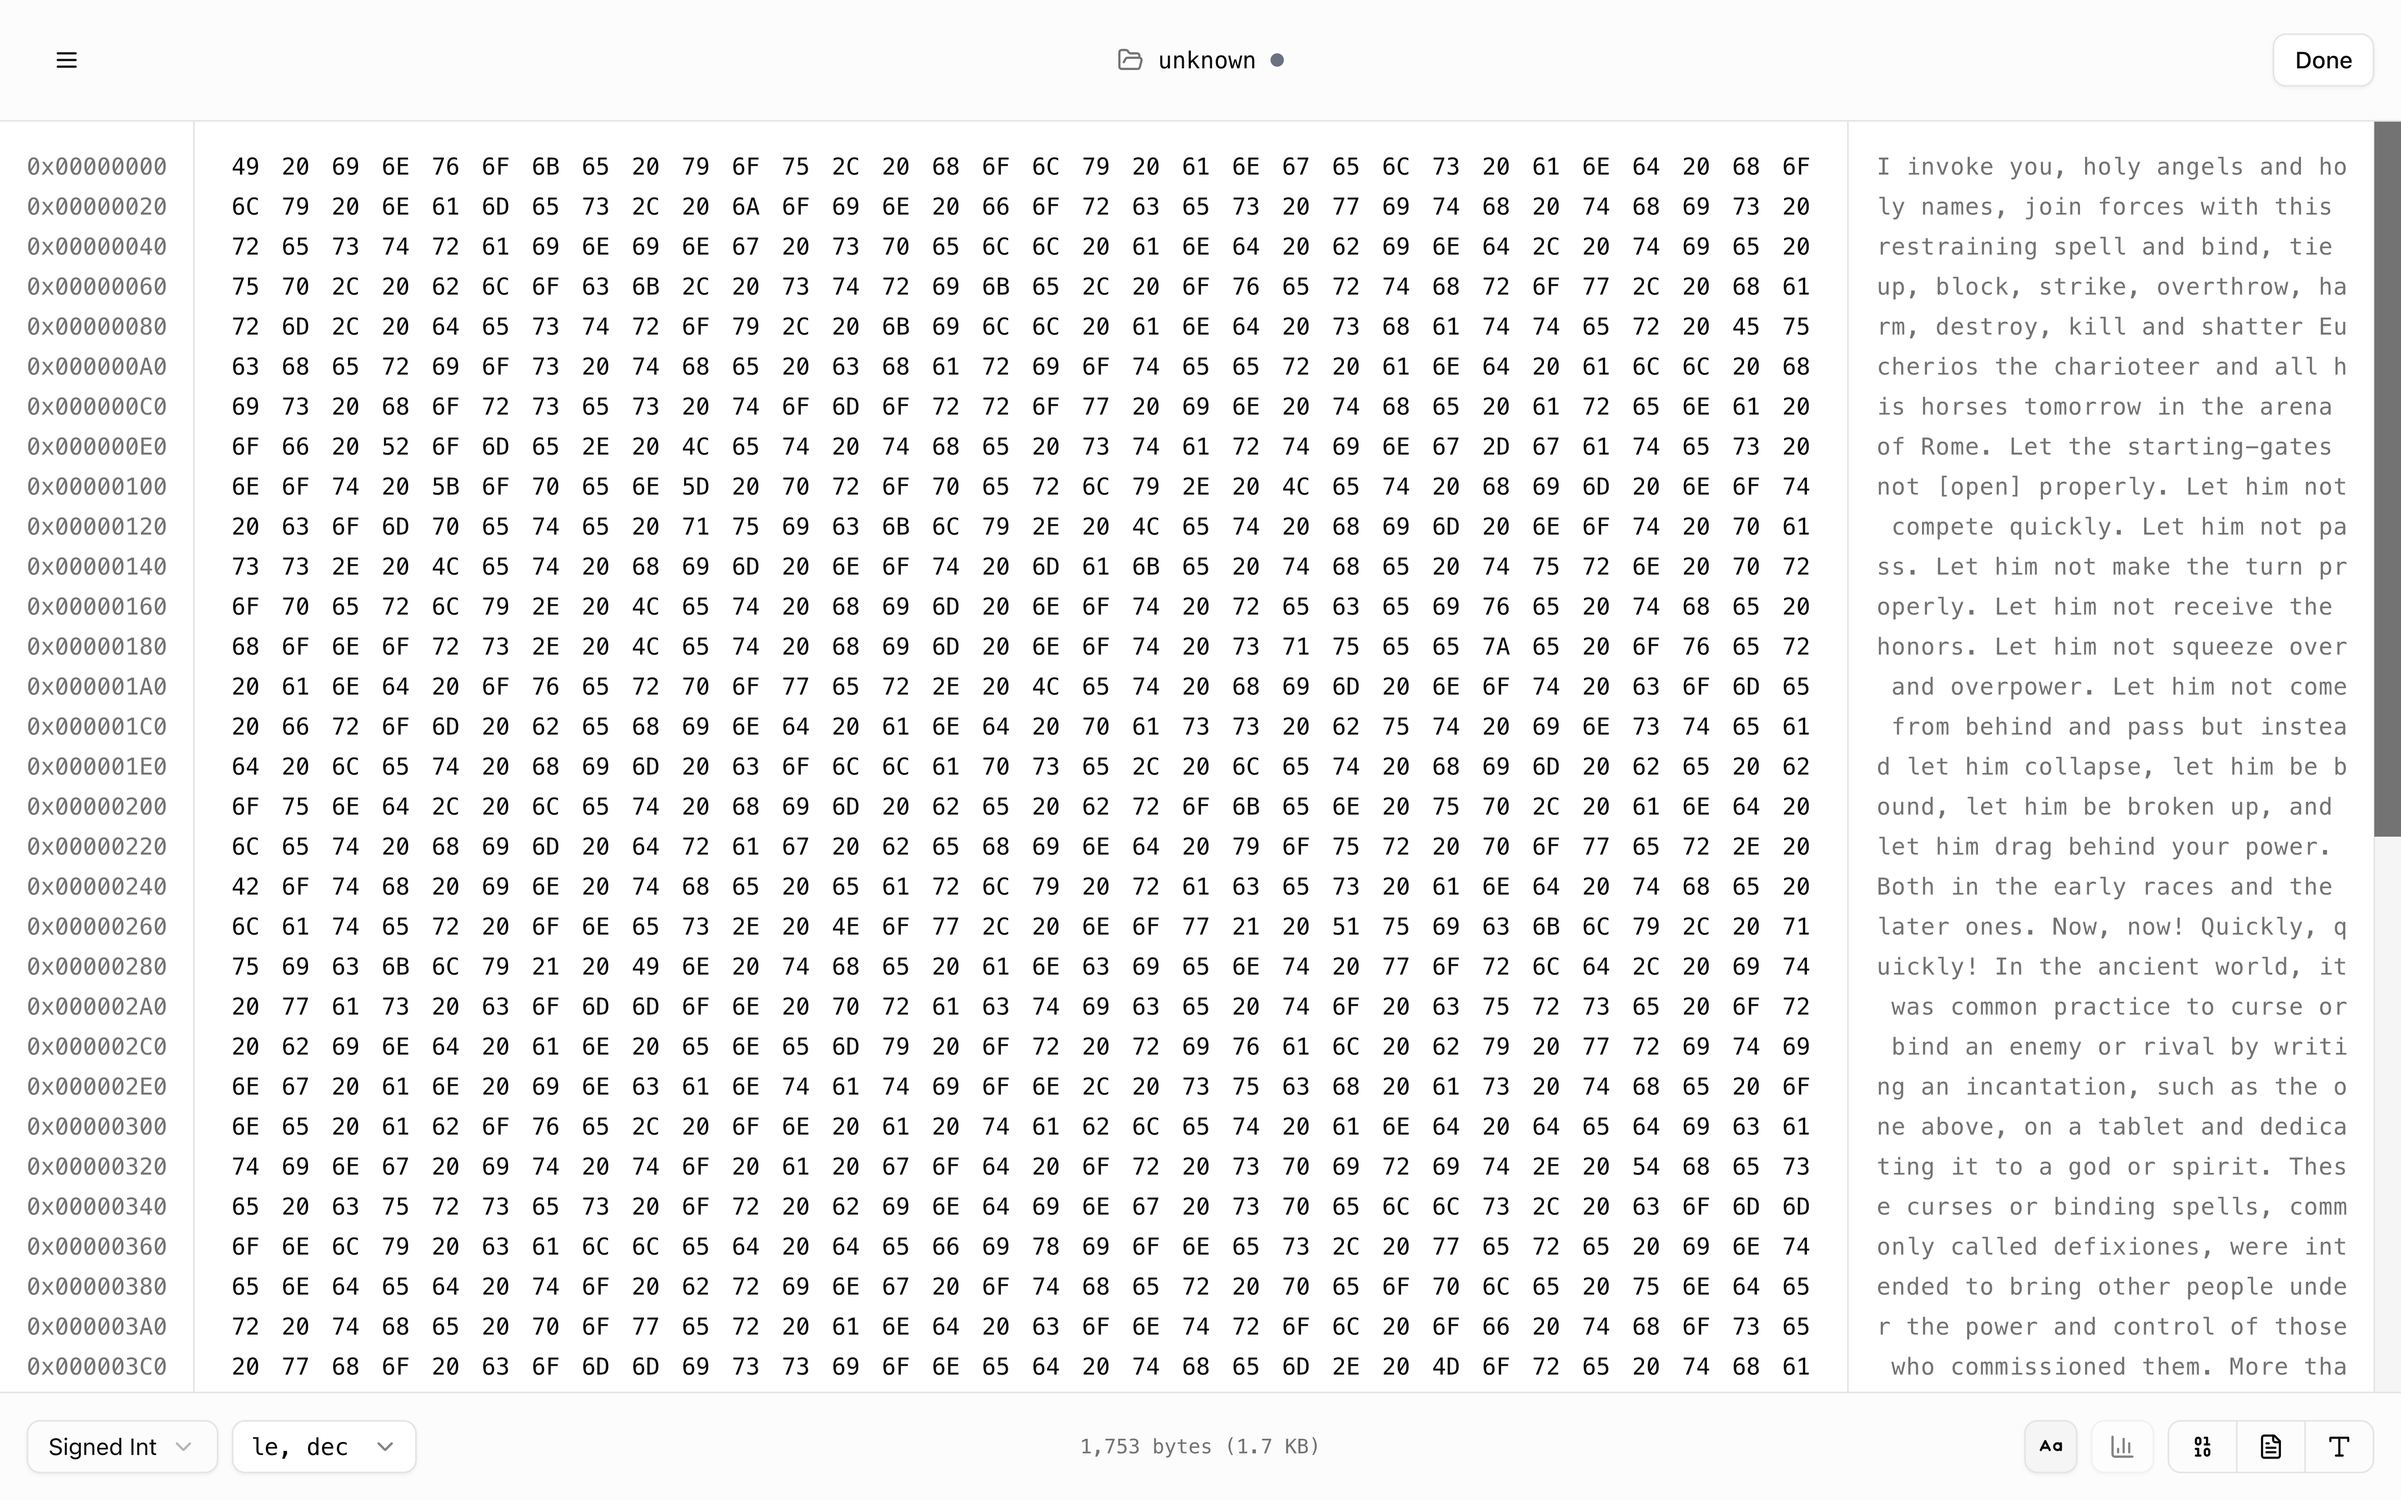
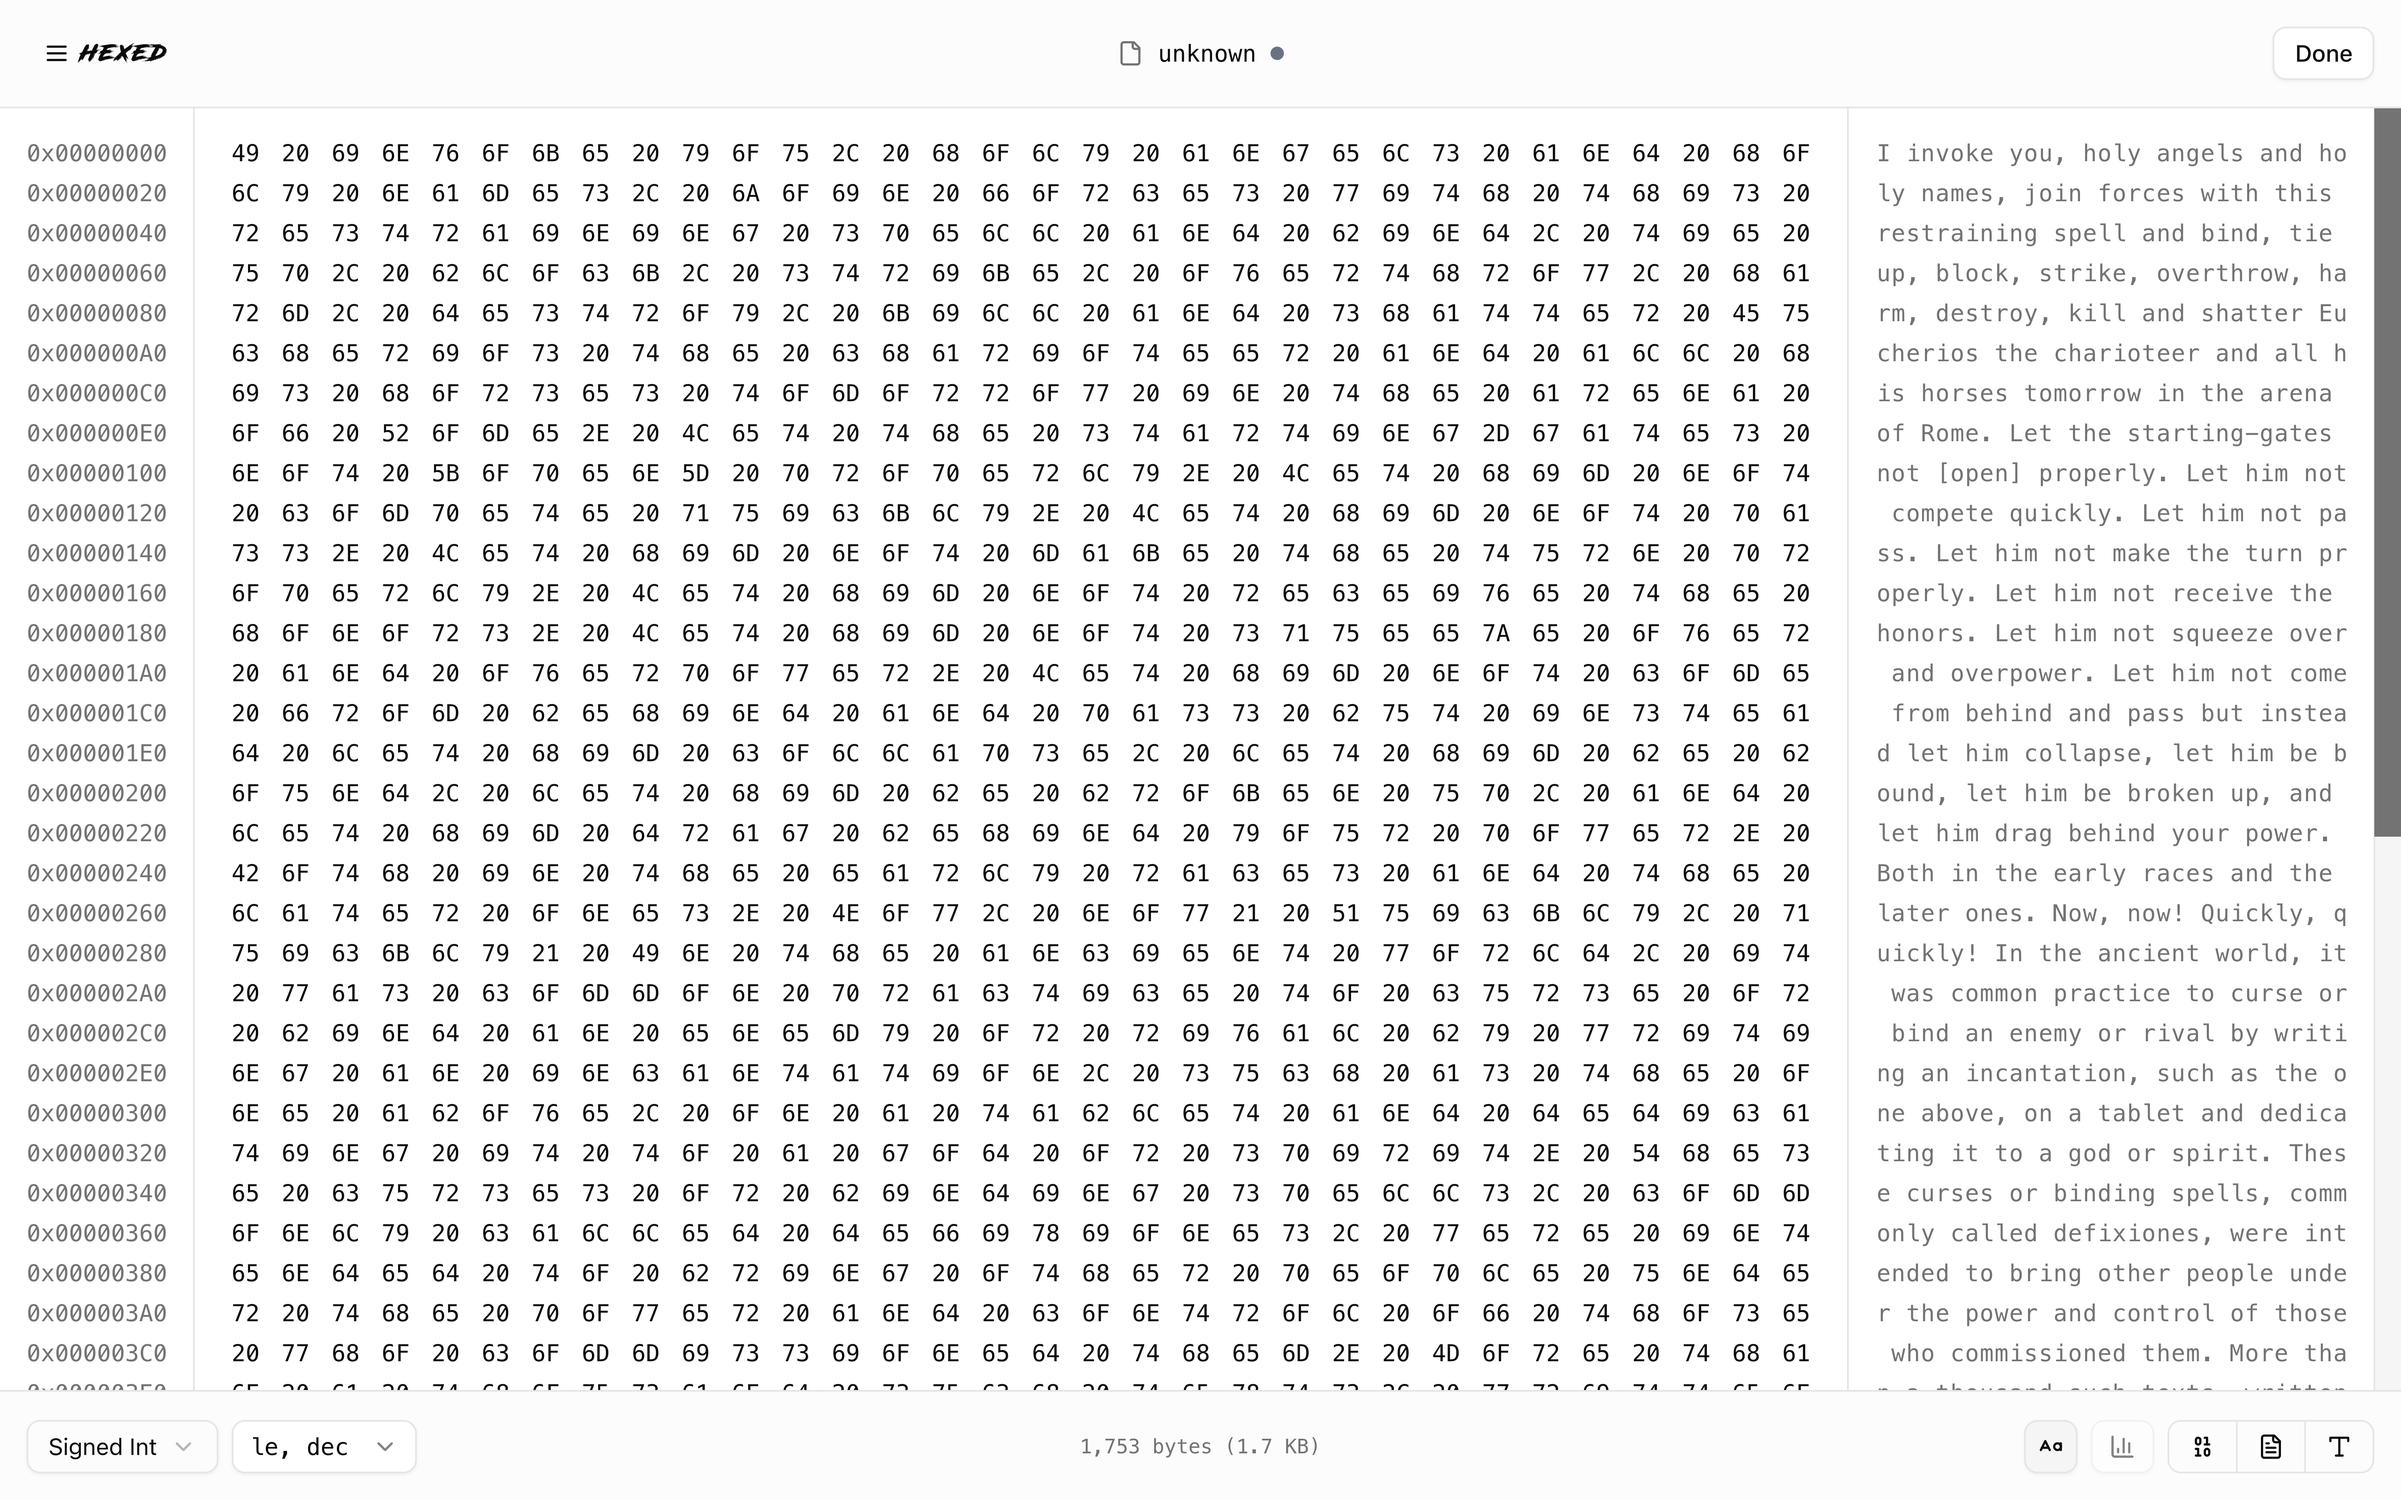
feat(): misc ui tweaks

diff --git a/packages/editor/src/components/common/logo.tsx b/packages/editor/src/components/common/logo.tsx
@@ -9,6 +9,7 @@ import { Menu } from "./menu"
 export type { MenuItem } from "./menu"
 
 import packageJson from '../../../../../package.public.json'
+import { useHexedInputContext } from "../../providers/hex-input-provider"
 
 
 export const Brand: FunctionComponent<{
@@ -39,7 +40,7 @@ export const Brand: FunctionComponent<{
             <span
               key={i}
               className={cn(
-                "inline-block opacity-0 translate-y-[2px]",
+                "inline opacity-0 translate-y-[2px]",
                 // play on mount
                 "animate-[hex-in_520ms_steps(2,end)_forwards]",
                 // replay on hover
@@ -88,6 +89,7 @@ export const Logo: FunctionComponent<{
   onShowHistogramChange: controlledOnShowHistogramChange,
   onChangeInput
 }) => {
+    const { input: { file } } = useHexedInputContext()
     const [internalShowHistogram, setInternalShowHistogram] = useState(false)
 
     // Use controlled state if provided, otherwise use internal state
@@ -101,8 +103,9 @@ export const Logo: FunctionComponent<{
       <div className="flex justify-center gap-2 logo-container">
         <DropdownMenu>
           <DropdownMenuTrigger asChild>
-            <Button variant="ghost" size="lg">
+            <Button variant="ghost" size="sm">
               <MenuIcon />
+              {file ? <Brand className="text-sm" /> : null}
             </Button>
           </DropdownMenuTrigger>
           <Menu

diff --git a/packages/editor/src/components/common/menu.tsx b/packages/editor/src/components/common/menu.tsx
@@ -154,6 +154,7 @@ export const Menu: FunctionComponent<MenuProps> = ({
                       >
                         <FileSourceIcon
                           fileSource={fileSource}
+                          fileName={file.handle.name}
                           className="mr-2"
                         />
                         {formatFilenameForDisplay(file.handle.name)}
